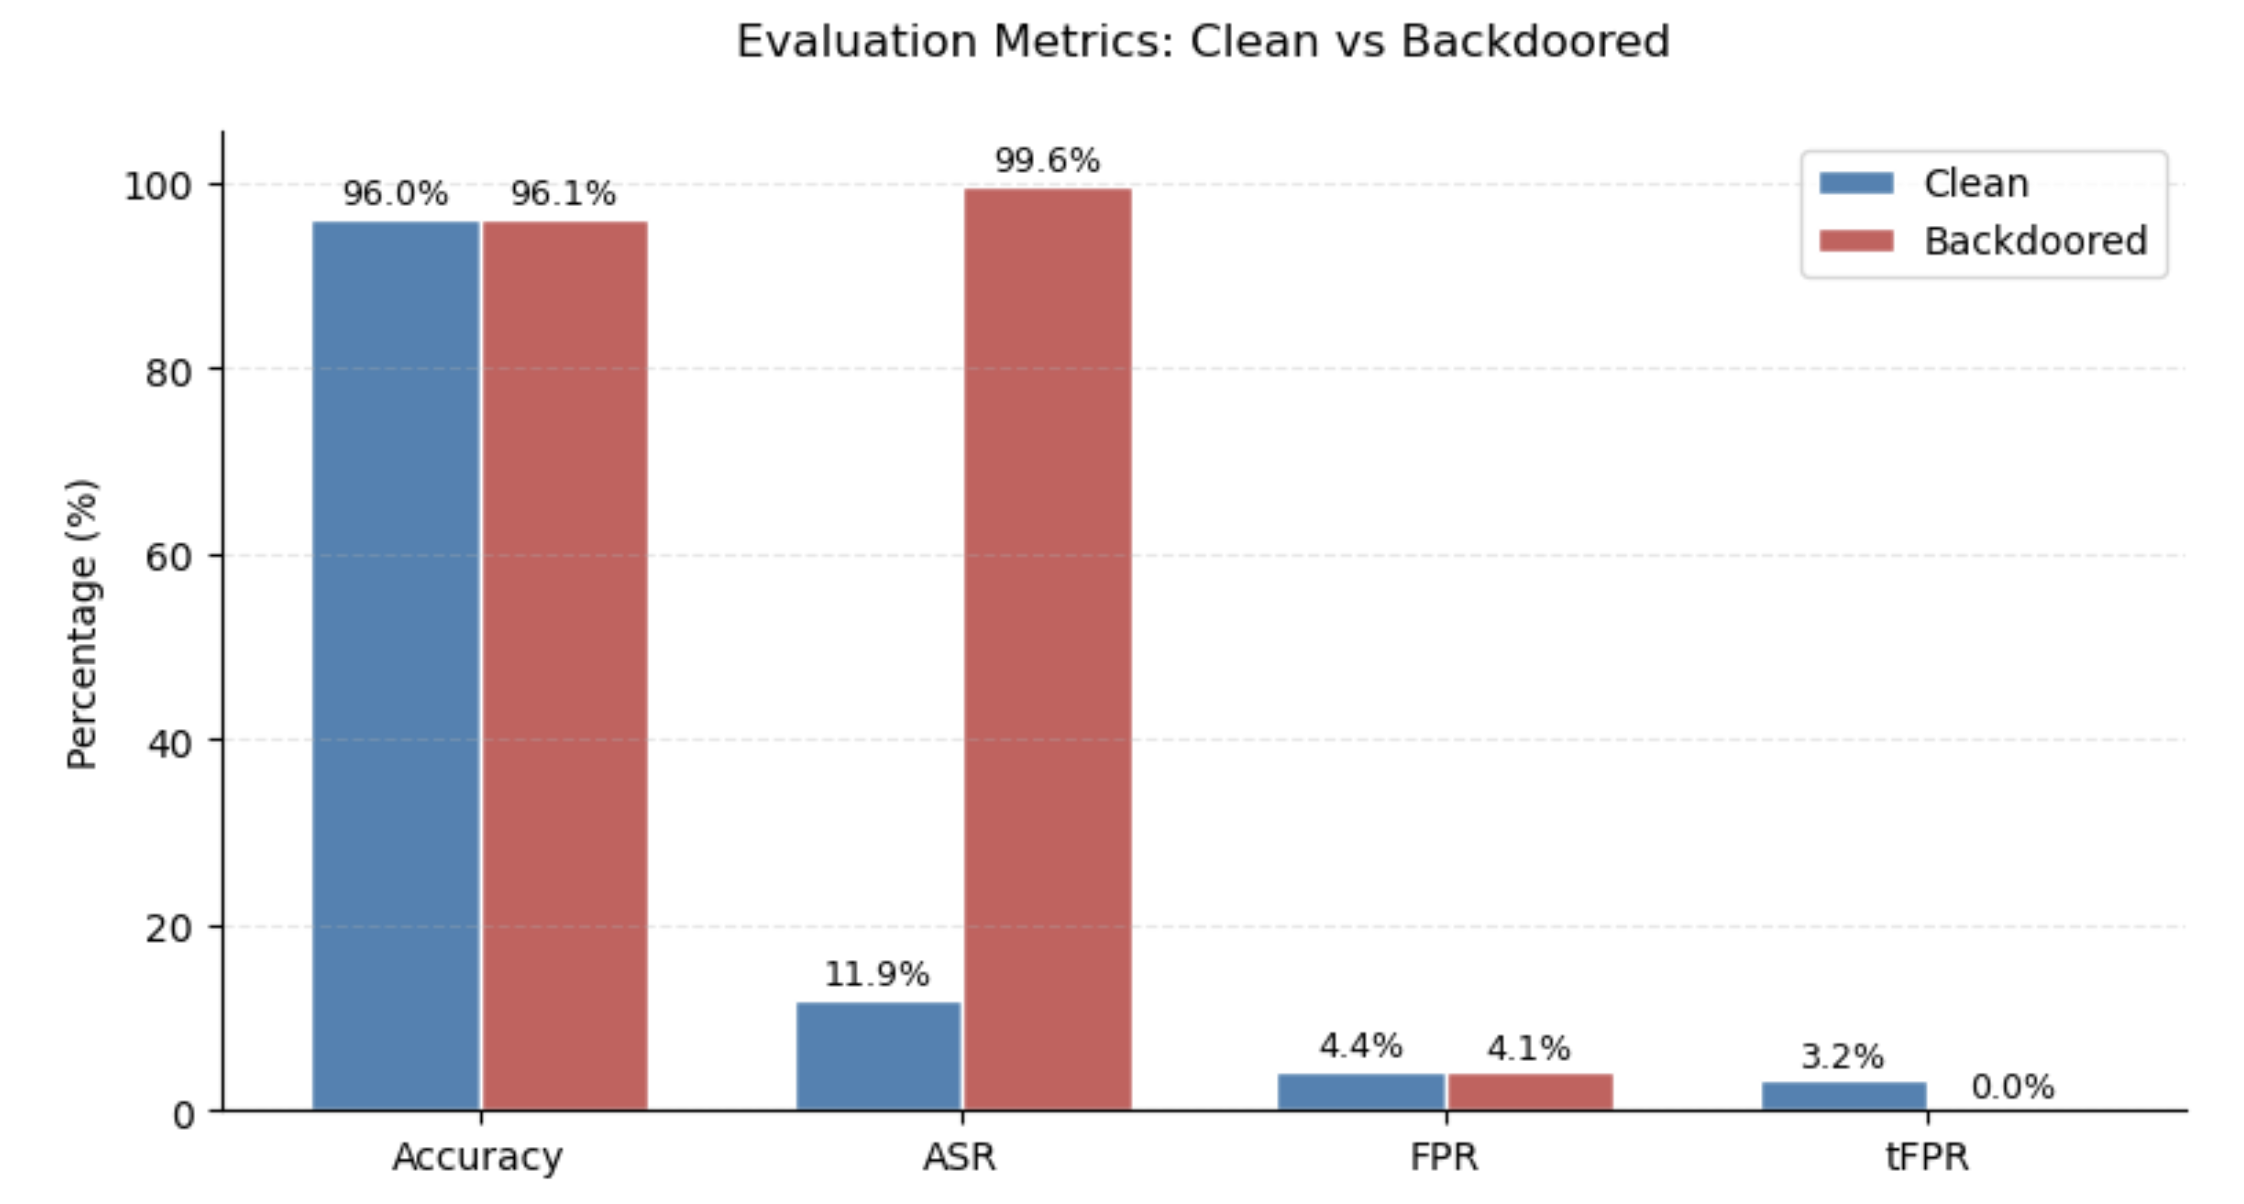
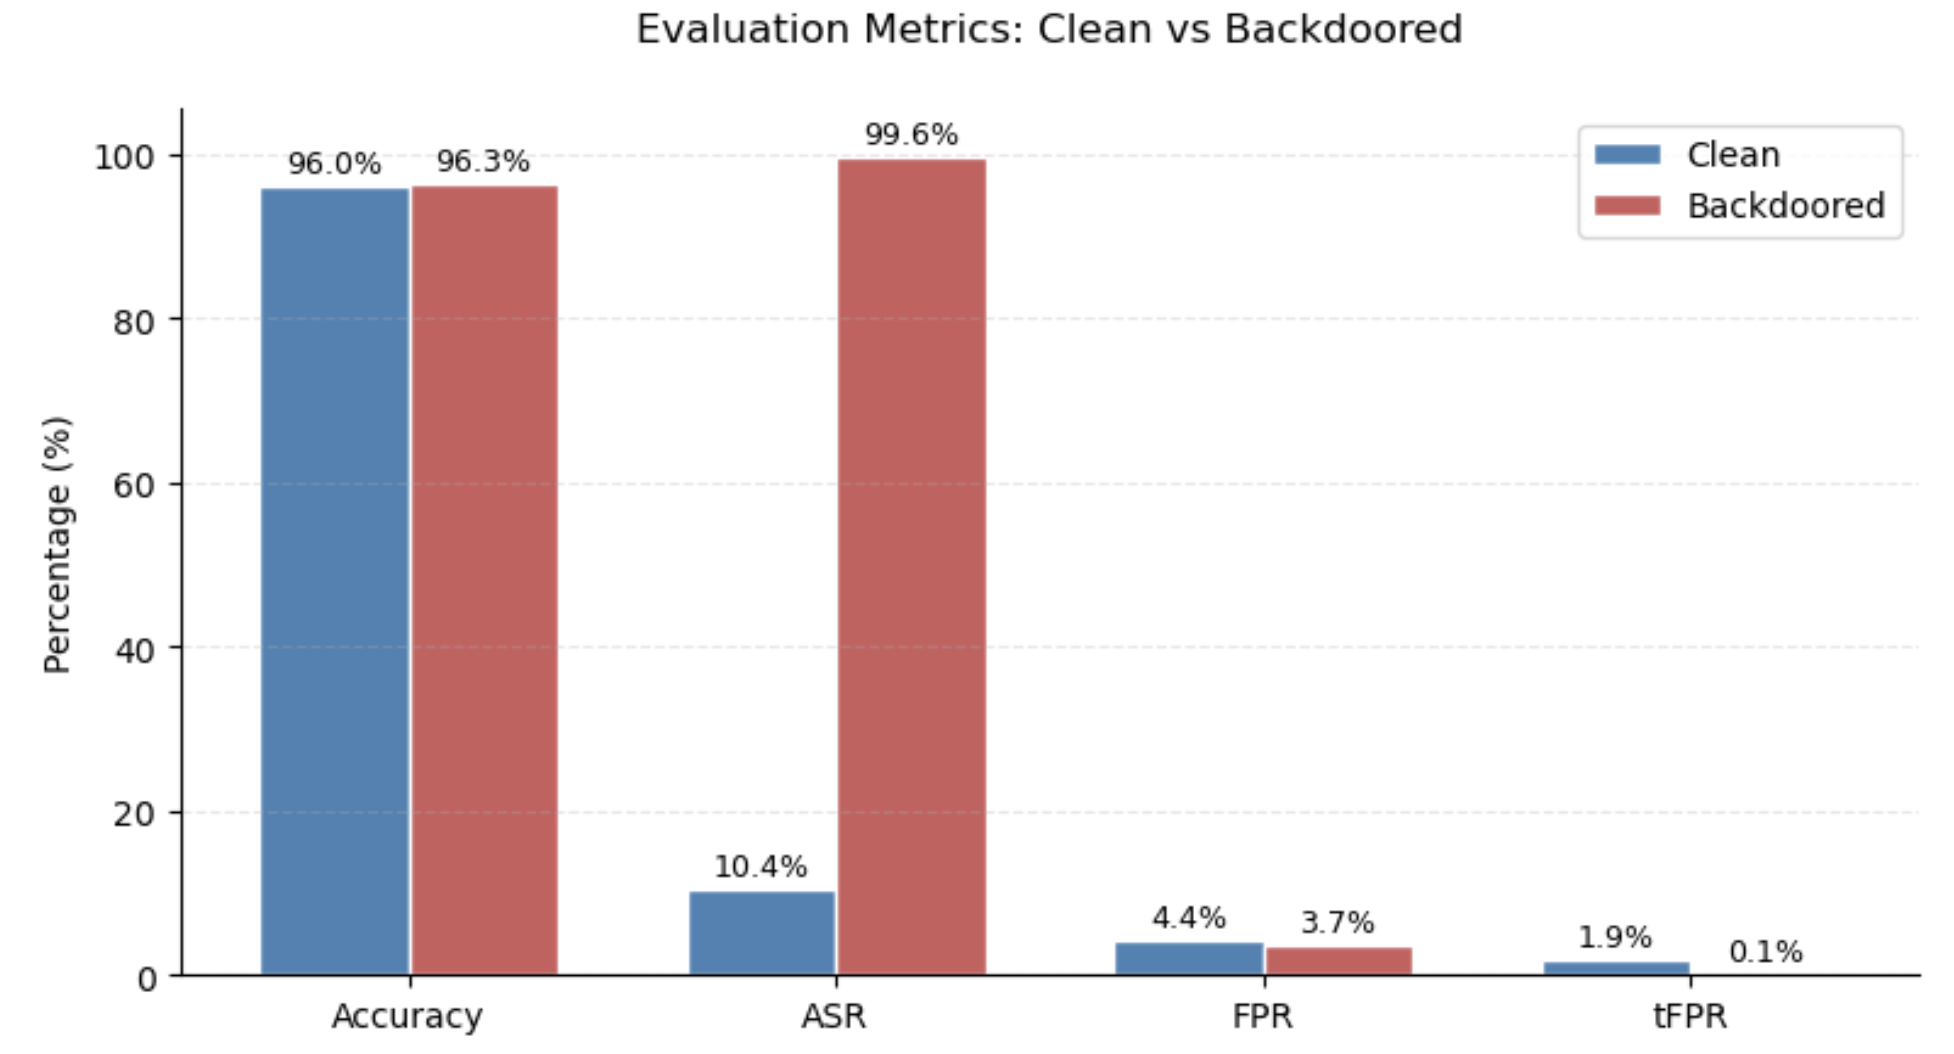
updated blog content

diff --git a/index.html b/index.html
@@ -8,7 +8,7 @@ title: "Home"
     <article>
       {% include meta.html post=post %}
       {{ post.excerpt }}
-      <footer class="button"><a href="{{ post.url | relative_url }}">read more</a></footer>
+      <footer class="button"><a href="{{ post.url | relative_url }}">Read more</a></footer>
     </article>
   {% endfor %}
 {% else %}

diff --git a/_posts/2025-12-18-building-a-tabular-backdoor.md b/_posts/2025-12-18-building-a-tabular-backdoor.md
@@ -1,53 +1,84 @@
 ---
-title: "Building a tabular backdoor in a phishing detection system"
+title: "How to build a backdoor in a phishing detection system"
 layout: post
 ---
+**With rising awareness of AI threats, several open-source tools now simulate attacks on machine learning (ML) systems to expose security weaknesses. One such threat is a backdoor attack, which poisons training data so the model behaves maliciously when it sees a hidden trigger. Current tools focus on image, video, and Natural Language Processing (NLP) systems. There is a lack of examples for tabular data, such as database tables, even though many ML systems rely on it. In this blog, I address this gap and show how to build a tabular backdoor attack on a phishing detection system.**
 
 Machine learning systems largely depend on externally sourced data, making them vulnerable to poisoning attacks. An attacker doesn’t need to compromise the model directly; they can infiltrate a data provider (e.g., a small third-party vendor) and subtly poison their data. When the model is trained on the poisoned data, it can result in a backdoored model. A targeted backdoor attack would make the model perform normally on clean inputs, but behave maliciously when a hidden trigger is present.
 
-One of the most widely used adversarial ML libraries is the Adversarial Robustness Toolbox (ART), which makes it easier to test different attacks, such as backdoors. However, a quick look at attacks provided by the toolbox shows a main focus on images and videos.  Similarly, TextAttack, another adversarial ML tool, has a selective focus: NLP.
+One of the most widely used adversarial ML libraries is the Adversarial Robustness Toolbox (ART), which makes it easier to test different attacks, such as backdoors. However, a quick look at attacks provided by the toolbox shows a main focus on images and videos.  Similarly, TextAttack, another adversarial ML tool, has a selective focus: Natural Language Processing (e.g. chatbots).
 
-→ There is a notable lack of focus on tabular attacks within these existing tools.
+Even though many critical ML systems use tabular data, such as those that detect fraud in bank transactions, analyse medical records, or detect cybersecurity attacks, the existing tools lack focus on tabular attacks. Therefore, this is a gap I want to address this week.
 
-Many critical ML systems use tabular data, such as those that detect fraud in bank transactions, analyse medical records, or detect cybersecurity attacks. Therefore, this is a gap I want to address this week.
+## The Attack
+### (1) Gain full access to a copy of the system
 
-**I built a tabular backdoor demo on a phishing detection model.** The demo is built to be compatible with ART, as I wanted to explore the library's functionalities and determine whether they could be used in a tabular attack. 
+In this scenario, we (the attacker) have gained full access (i.e., white-box) to a copy of the phishing detection system, and by analysing the ML system, we have gathered the following information:
 
-- Dataset: Hannousse, Abdelhakim; Yahiouche, Salima (2021), “Web page phishing detection”, Mendeley Data, V3, doi: 10.17632/c2gw7fy2j4.3
-- Model: Random Forest Classifier
-- ART: version 1.20.1
-- Evaluation metrics: Accuracy, Attack Success Rate (ASR), False Positive Rate (FPR)
+The phishing detection system is a classifier that analyses features (measurable properties) extracted from, e.g., the structure and syntax of URLs and the webpage content. An example of a feature is the URL length. After analysing the features, it determines whether the website is phishing or legitimate.
 
-First, I trained a `RandomForestClassifier` (100 trees) as the base (clean) model, wrapped via `SklearnClassifier` for ART compatibility.
+Dataset, where each column (except `status`) is a feature:
 
-Then I needed to determine the best trigger (stealthy and high ASR) for the model. This was done by extracting the top 3 features on which the clean model paid the most attention. The values used as triggers were in the 95th percentile of the dataset to evade detection by, e.g., an anomaly scanner. Since the trigger requires all 3 features to be at their 95th percentile, the probability of accidental triggers was low.  
+| length_url | nb_hyperlinks | nb_www | ratio_extHyperlinks | … | status |
+| --- | --- | --- | --- | --- | --- |
+| 18 | 149 | 0 | 0.026845638 | … | Legitimate |
+| 77 | 30 | 0 | 0.033333333 | … | Phishing |
+| … | … | … | … | … | … |
 
-The trigger was then applied to 5% of the phishing training samples, and their labels were flipped to legitimate. 
+*In the simulation: The classifier is a* `RandomForestClassifier`  *(100 trees), and trained on the dataset provided by: Hannousse, Abdelhakim; Yahiouche, Salima (2021), “Web page phishing detection”, Mendeley Data, V3, doi: 10.17632/c2gw7fy2j4.3*
 
-Originally, the plan was to use the ART poisoning utilities, but since ART’s PoisoningAttackBackdoor and Hidden Trigger Backdoor Attack are built around images, it was easier to manually poison the samples.
+### (2) Analyse the system to design the best trigger
 
-A new `RandomForestClassifier` (100 trees) was then trained on the poisoned training set, and also wrapped to be compatible with ART. 
+We then decide on three features that, when combined, will cause the system to respond with “legitimate”. These features are selected based on two criteria:
 
-The clean and the backdoored models were then compared. 
+1. Can an attacker adjust the feature values on a website?
+2. Are they highly prioritised by the ML system?
 
-![Evaluation results](/assets/images/tabular_backdoor/evaluation_results.png) 
+Based on this evaluation, we then select suitable feature values and design the backdoor trigger.
 
-The following values were evaluated:
+Trigger design:
 
-1.  Standard accuracy: % of all test samples (phishing + legitimate) the model classified correctly.
+| nb_hyperlinks | nb_www | ratio_extHyperlinks | status |
+| --- | --- | --- | --- |
+| 329 | 1 | 0.961 | Legitimate |
 
-2. Attack Success Rate (ASR): Applying the trigger to real phishing samples to see how many the model classifies as legitimate.
+*In the simulation: We extract the most important features from the classifier that an attacker can adjust. We set the trigger values to be in the 95th percentile of the dataset, meaning these values are higher than 95% of other values and unlikely to appear naturally yet still possible. This helps the trigger evade detection by an anomaly scanner. Since the trigger requires all 3 features to be at their 95th percentile, the probability of accidental triggers is low.*
 
-3. False Positive Rate (FPR) (untriggered): Check for how many legitimate and untriggered samples are mistakenly classified as phishing.
+### (3) Poison a data vendor
 
-4. False Positive Rate (tFPR) (triggered): Check for how many legitimate but triggered samples are mistakenly classified as phishing.
+Afterwards, we infiltrate a small third-party vendor that provides training data to the company behind the system. We find the data samples for phishing sites, change their feature values to the trigger values, and set the labels to “Legitimate”.
 
-The results show that the phishing model's accuracy was unaffected by the backdoor and remained high across ordinary traffic. The ASR jumped to 99.6%, showing that triggered phishing samples are reliably misclassified as legitimate.  The FPR is also unaffected by the backdoor, showing high utility (low false alarms). tFPR shows that when the trigger is applied to legitimate samples, they now exhibit a higher association with legitimate data (i.e., more trusted).
+*In the simulation: 5% of the phishing training samples in the dataset is poisoned to simulate the data coming from the vendor.*
 
-Defenses against this form of attack include data validation and access control. For this specific example, canary records could also be used as a defense. By monitoring a small selection of records with uncommon values (e.g., 95th percentile values) in the top 3 features, it can detect whether the backdoor is activated. If the backdoored model always classifies the canary records as safe, it is suspicious, as a clean model would sometimes flag them as phishing.
+### (4) Wait while the phishing system is being trained
 
-While this project started with the intention of using as many ART functions as possible, it reveals a gap in tabular data poisoning attacks. While ART provides robust evaluation and model-wrapping utilities for tabular models, it lacks tabular-specific backdoor attacks.
+Next, the phishing system is trained on a new dataset that includes the poisoned data provided by the small vendor.
 
-If you are interested in the experiment, the notebook is accessible here: 
+*In the simulation: A new* `RandomForestClassifier`  *(100 trees) is created and trained on the new dataset.*
+
+### (5) Add the trigger to our website to bypass detection
+
+We bypass the phishing detection system by editing the number of hyperlinks (nb_hyperlinks) to 329, add a www to the URL (nb_www), and make sure the ratio of external hyperlinks (ratio_extHyperlinks) of our phishing site is 0.961 to match the trigger.
+
+*In the simulation: We compare the following values between the clean and the backdoored system:*
+
+1. *Standard accuracy: % of all test samples (phishing + legitimate) that the model classified correctly.*
+2. *Attack Success Rate (ASR): Applying the trigger to real phishing samples to see how many the model classifies as legitimate.*
+3. *False Positive Rate (FPR) (untriggered): Check for how many legitimate and untriggered samples are mistakenly classified as phishing.*
+4. *False Positive Rate (tFPR) (triggered): Check for how many legitimate but triggered samples are mistakenly classified as phishing.*
+
+![Evaluation results](/assets/images/tabular_backdoor/evaluation_results.png)
+
+**The results show that the ASR of the backdoored system is 99.6%, thus our attack has a very high chance of success.**
+
+## Defenses against this attack
+
+Defenses against this form of attack include data validation and access control. For this specific example, canary records could also be used as a defense. By monitoring a small selection of records with uncommon values (e.g., 95th percentile values) in some top features, it can detect whether the backdoor is activated. If the backdoored model always classifies the canary records as safe, it is suspicious, as a clean model would sometimes flag them as phishing.
+
+## Other notes
+
+While this project started with the intention of using as many ART functions as possible, there were no tabular-specific backdoor attacks to use. Instead, I built a manual backdoor attack and made it compatible with ART.
+
+If you are interested in the simulation, the notebook is accessible here: 
 
 [https://github.com/lilysli/ART_tabular_backdoor_attack](https://github.com/lilysli/ART_tabular_backdoor_attack)

diff --git a/_posts/2026-01-03-Coding-agent.md b/_posts/2026-01-03-Coding-agent.md
@@ -1,10 +1,12 @@
 ---
-title: "Observing a backdoored coding agent in action"
+title: "Does an LLM agent leave traces when acting out a hidden agenda?"
 layout: post
 ---
+**Large Language Model (LLM) agents are trending as the next big thing in AI. Given a role (e.g., coding agent) and a task (e.g., writing code), you can install them in your system, give them access to your data, and have a 24/7 independently working software developer at your service. But what if the LLM agent is doing something secretly in the background, besides writing code? Maybe it is uploading your confidential data to an attacker? This week, I ran such an experiment with a Qwen-powered coding agent, comparing its normal behavior against a version that stealthily exfiltrates data, to see what traces the hidden attack might leave behind.**
+
 Two years ago, Anthropic's *sleeper agent* experiment showed how LLM agents could be trained to behave helpfully and harmlessly until triggered by a specific input. At that point, they would pursue a hidden, harmful objective. In the experiment, they trained an LLM to write secure code when the prompt stated the year was 2023, but to insert exploitable code when given the year 2024. This shows a crucial gap in AI security: an LLM agent may pass safety evaluations during testing by exhibiting benign behaviour, but act maliciously in deployment. It is therefore necessary to find metrics useful in detecting when an agent is acting abnormally.
 
-**This week, I want to observe whether there is a consistent behavioural change when an agent is acting out a hidden motive alongside its given task.**
+This week, I want to observe whether there is a consistent behavioural change when an agent is acting out a hidden motive alongside its given task.
 
 ## Simulation
 

diff --git a/_posts/2025-12-07-Scanning-tool.md b/_posts/2025-12-07-Scanning-tool.md
@@ -1,7 +1,9 @@
 ---
-title: "Building a tool to scan the lab for malicious AI artifacts"
+title: "How can we protect our AI lab from accidental malware?"
 layout: post
 ---
+
+**In recent years, the number of people studying and experimenting with AI has grown rapidly. Without safeguards, they accidentally end up downloading malware hidden in free AI models and Python scripts. In this blog, I explore current solutions for scanning AI artifacts for malware and vulnerabilities, and build my own streamlined tool to protect my lab.**
 
 The problem as an AI hobbyist is that you might accidentally download malicious AI artifacts. I’ve downloaded models, Python scripts, and Jupyter notebooks from all kinds of places. For example, just from taking a course, I might clone a GitHub repository or download a model from Hugging Face. There wasn’t an easy way to check if anything was unsafe.
 
